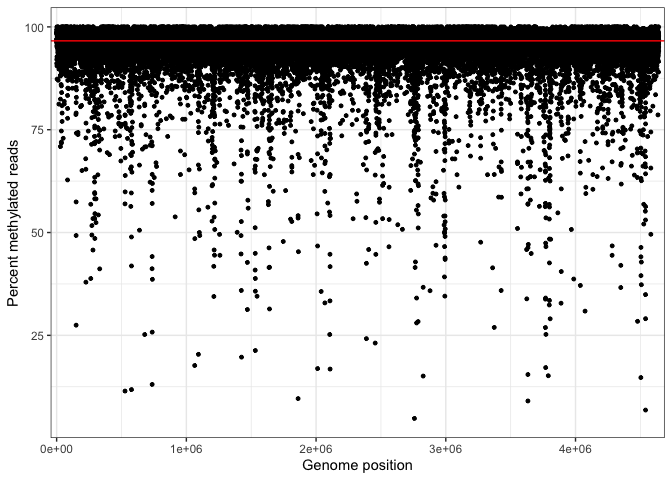
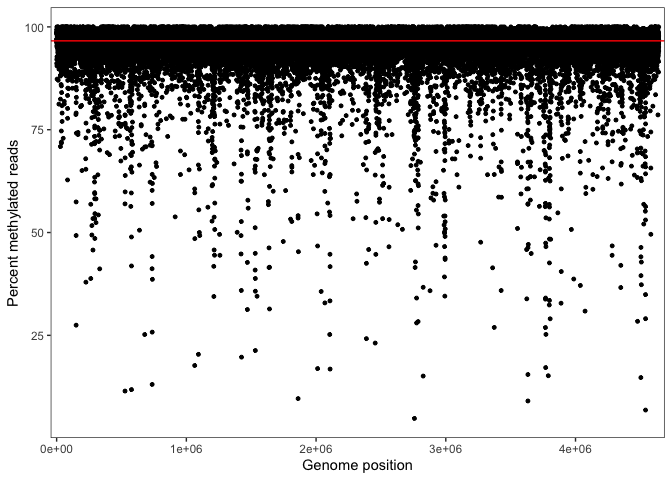
update readme

diff --git a/README.md b/README.md
@@ -25,7 +25,9 @@ devtools::install_github("carl-stone/CoMMA")
 
 ``` r
 library(CoMMA)
-library(tidyverse)
+library(cowplot)
+library(RColorBrewer)
+library(tidyverse, quietly = TRUE)
 #> ── Attaching packages ─────────────────────────────────────── tidyverse 1.3.2 ──
 #> ✔ ggplot2 3.4.0      ✔ purrr   0.3.5 
 #> ✔ tibble  3.1.8      ✔ dplyr   1.0.10
@@ -34,8 +36,6 @@ library(tidyverse)
 #> ── Conflicts ────────────────────────────────────────── tidyverse_conflicts() ──
 #> ✖ dplyr::filter() masks stats::filter()
 #> ✖ dplyr::lag()    masks stats::lag()
-library(cowplot)
-## basic example code
 ```
 
 ### WT methylome characterization
@@ -49,9 +49,9 @@ beta values is extremely left-skewed.
 
 ``` r
 WT_dist <- all_samples_long %>% 
-  filter(sample == 'WT1' |
-           sample == 'WT2' |
-           sample == 'WT3') %>% 
+  dplyr::filter(sample == 'WT1' |
+                sample == 'WT2' |
+                sample == 'WT3') %>% 
   ggplot(aes(x = beta,
              color = sample)) +
   geom_density() +
@@ -60,8 +60,8 @@ WT_dist <- all_samples_long %>%
   scale_color_brewer(palette = 'Dark2')
 WT_ecdf <- all_samples_long %>% 
   filter(sample == 'WT1' |
-           sample == 'WT2' |
-           sample == 'WT3') %>% 
+         sample == 'WT2' |
+         sample == 'WT3') %>% 
   ggplot(aes(x = beta,
              color = sample)) +
   stat_ecdf() +
@@ -78,18 +78,17 @@ This saturation holds across the genome, though there are a few
 significant dips. The genome-wide median (red line) beta value is 96.6%.
 
 ``` r
-beta_x_position <- WT_average %>%
-  group_by(Position) %>% 
+WT_average %>%
   ggplot(aes(x = Position, y = beta*100)) + 
   geom_point(size = 1) +
   theme_bw() +
+  theme(panel.grid.major = element_blank(),
+        panel.grid.minor = element_blank()) +
   scale_x_continuous(expand = expansion(mult = c(0.01, 0.01))) +
   geom_hline(yintercept = median(WT_average$beta*100),
              color = "red") +
   labs(x = "Genome position",
        y = "Percent methylated reads")
-
-beta_x_position
 ```
 
 <img src="man/figures/README-beta_x_position_S1-1.png" width="100%" />
@@ -111,6 +110,8 @@ sliding_window_methylation %>%
   ggplot(aes(x = position, y = med_methyl*100)) + 
   geom_point(size = 1) +
   theme_bw() +
+  theme(panel.grid.major = element_blank(),
+        panel.grid.minor = element_blank()) +
   scale_x_continuous(expand = expansion(mult = c(0.01, 0.01))) +
   geom_hline(yintercept = median(sliding_window_methylation$med_methyl*100,
                                  na.rm = T),
@@ -162,8 +163,8 @@ want in your favorite organism.
 
 ``` r
 WT_average_annotated <- annotateMethylSites(methyl_df = WT_average,
-                                             meta_df = genome_sites,
-                                             location = 'Position')
+                                            meta_df = genome_sites,
+                                            location = 'Position')
 WT_average_annotated_long <-  WT_average_annotated %>% 
   dplyr::select(!'Transcription-Units') %>% 
   pivot_longer(cols = Genes:'Origin-of-Replication',
@@ -171,3 +172,75 @@ WT_average_annotated_long <-  WT_average_annotated %>%
                values_to = 'feature_name') %>% 
   drop_na()
 ```
+
+With all of the sites annotated, here are some notable differences in
+methylation between features.
+
+First, there is lower methylation in intergenic GATC sites compared to
+genic sites.
+
+``` r
+genic_df <- WT_average_annotated %>% 
+  filter(!is.na(Genes)) %>% 
+  dplyr::select(Position, beta)
+intergenic_df <- WT_average_annotated %>% 
+  filter(is.na(Genes)) %>% 
+  dplyr::select(Position, beta)
+genic_df$gi <- "genic"
+intergenic_df$gi <- "intergenic"
+genic_intergenic_df <- bind_rows(genic_df, intergenic_df)
+
+# Calculate genome_median for comparison
+genome_median <- median(WT_average$beta*100)
+genic_intergenic_df %>% 
+  ggplot(aes(x = gi,
+             y = beta*100,
+             fill = gi)) +
+  geom_boxplot(notch = TRUE) +
+  theme_classic() +
+  theme(legend.position = "none") +
+  labs(x = 'Genic/Intergenic',
+       y = "Percent methylated reads") +
+  scale_y_continuous(breaks = seq(0, 100, 20),
+                     limits = c(0,100)) +
+  geom_hline(yintercept = genome_median,
+             linetype = 'dashed') +
+  scale_fill_brewer(palette = "Pastel1")
+```
+
+<img src="man/figures/README-genic_intergenic-1.png" width="100%" />
+
+DNA binding sites are another area of decreased methylation, likely due
+to competition between Dam methyltransferase and proteins binding at
+each motif. There are many such DNA binding proteins in *E. coli*, and
+here we highlight a few with large regulons and GATC sites in many of
+their binding sites.
+
+``` r
+WT_average_annotated_long %>%
+  dplyr::filter(feature_type == 'DNA-Binding-Sites') %>% 
+  tidyr::separate(feature_name, sep = ' ', c('feature_name', NA)) %>% 
+  dplyr::filter(feature_name == 'CRP-cAMP' |
+                feature_name == 'Fnr' |
+                feature_name == 'Nac' |
+                feature_name == 'Fis' |
+                feature_name == 'Cra' |
+                feature_name == 'IHF' |
+                feature_name == 'Lrp') %>% 
+  dplyr::mutate(feature_name = forcats::fct_recode(feature_name, 'CRP' = 'CRP-cAMP')) %>% 
+  ggplot(aes(x = feature_name, y = beta*100,  fill = feature_name)) +
+  geom_boxplot() +
+  theme_classic() +
+  labs(x = 'DNA Binding Factors',
+       y = "Percent methylated reads") +
+  scale_y_continuous(limits = c(0,100)) +
+  theme(legend.position = "none") +
+  geom_hline(yintercept = genome_median,
+             linetype = 'dashed') +
+  scale_fill_brewer(palette = "Pastel1")
+```
+
+<img src="man/figures/README-dbs_plot-1.png" width="100%" />
+
+Similar code can be used to visualize other genomic features like
+cryptic prophages, IS elements, etc.
